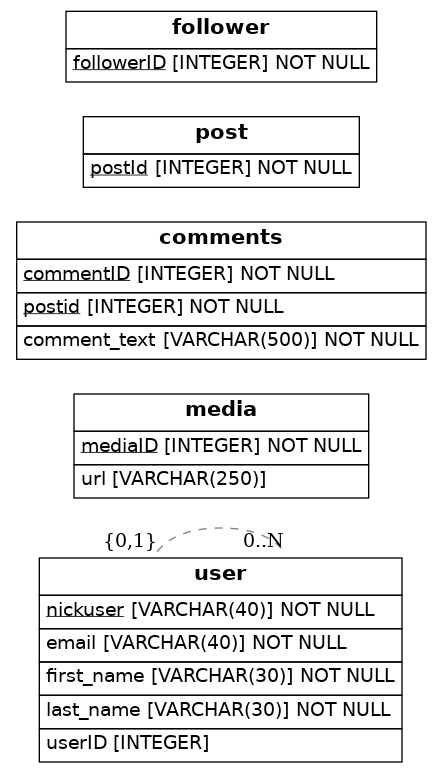
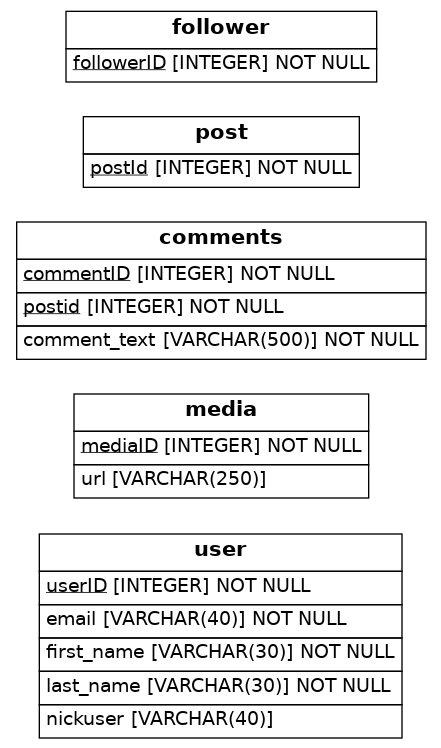
cambio en relacion

Changed region(s): [[0.0295, 0.2767, 0.9728, 1.0], [0.1474, 0.0, 0.8549, 0.246]]

diff --git a/src/models.py b/src/models.py
@@ -9,11 +9,12 @@ Base = declarative_base()
 
 class User(Base):
     __tablename__ = 'user'
-    nickuser = Column(String(40), primary_key=True)
-    userID = Column(Integer,ForeignKey('user.userID'))
+    nickuser = Column(String(40), unique=True)
+    userID = Column(Integer, primary_key=True)
     first_name = Column(String(30), nullable=False)
     last_name = Column(String(30), nullable=False)
     email = Column(String(40), nullable=False, unique=True)
+    post = relationship('post')
 
 
 class Media(Base):
@@ -31,8 +32,14 @@ class Comment (Base):
 
 class Post(Base):
     __tablename__ = 'post'
+    mediaId = Column(Integer, ForeignKey('media.mediaID'))
+    commentID = Column (Integer, ForeignKey('comment. commentID'))              
     postId = Column(Integer, primary_key=True)
-    userID = relationship('User')
+    comment = relationship('commment')
+    media = relationship('media')
+
+
+    # userID = relationship('User')
 
 class Follower(Base):
     __tablename__ = 'follower'
